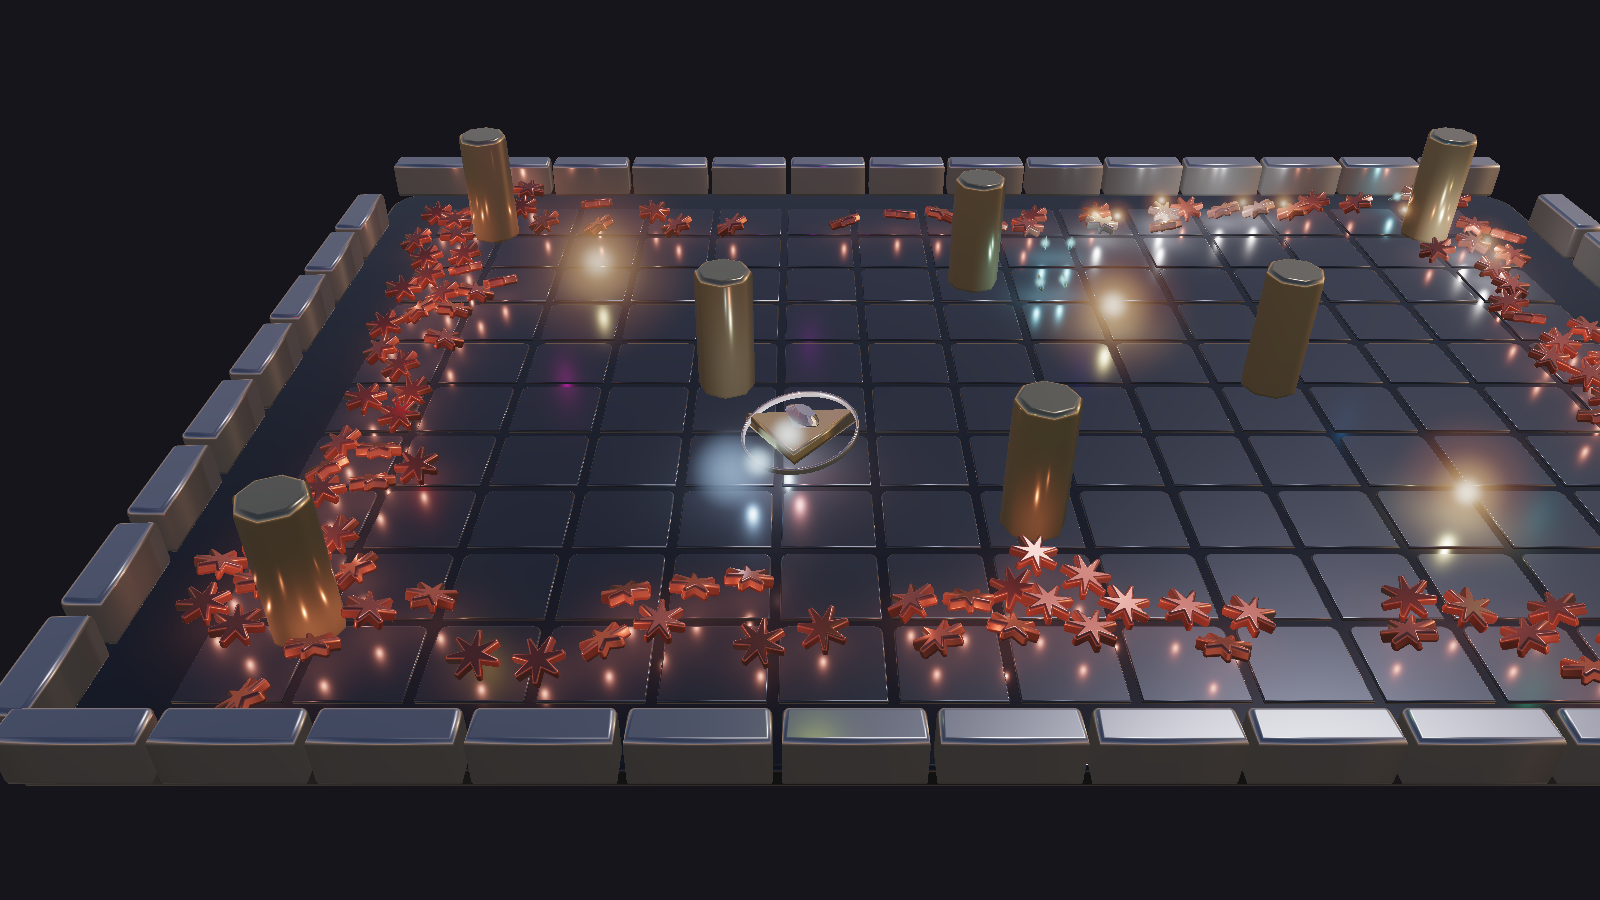
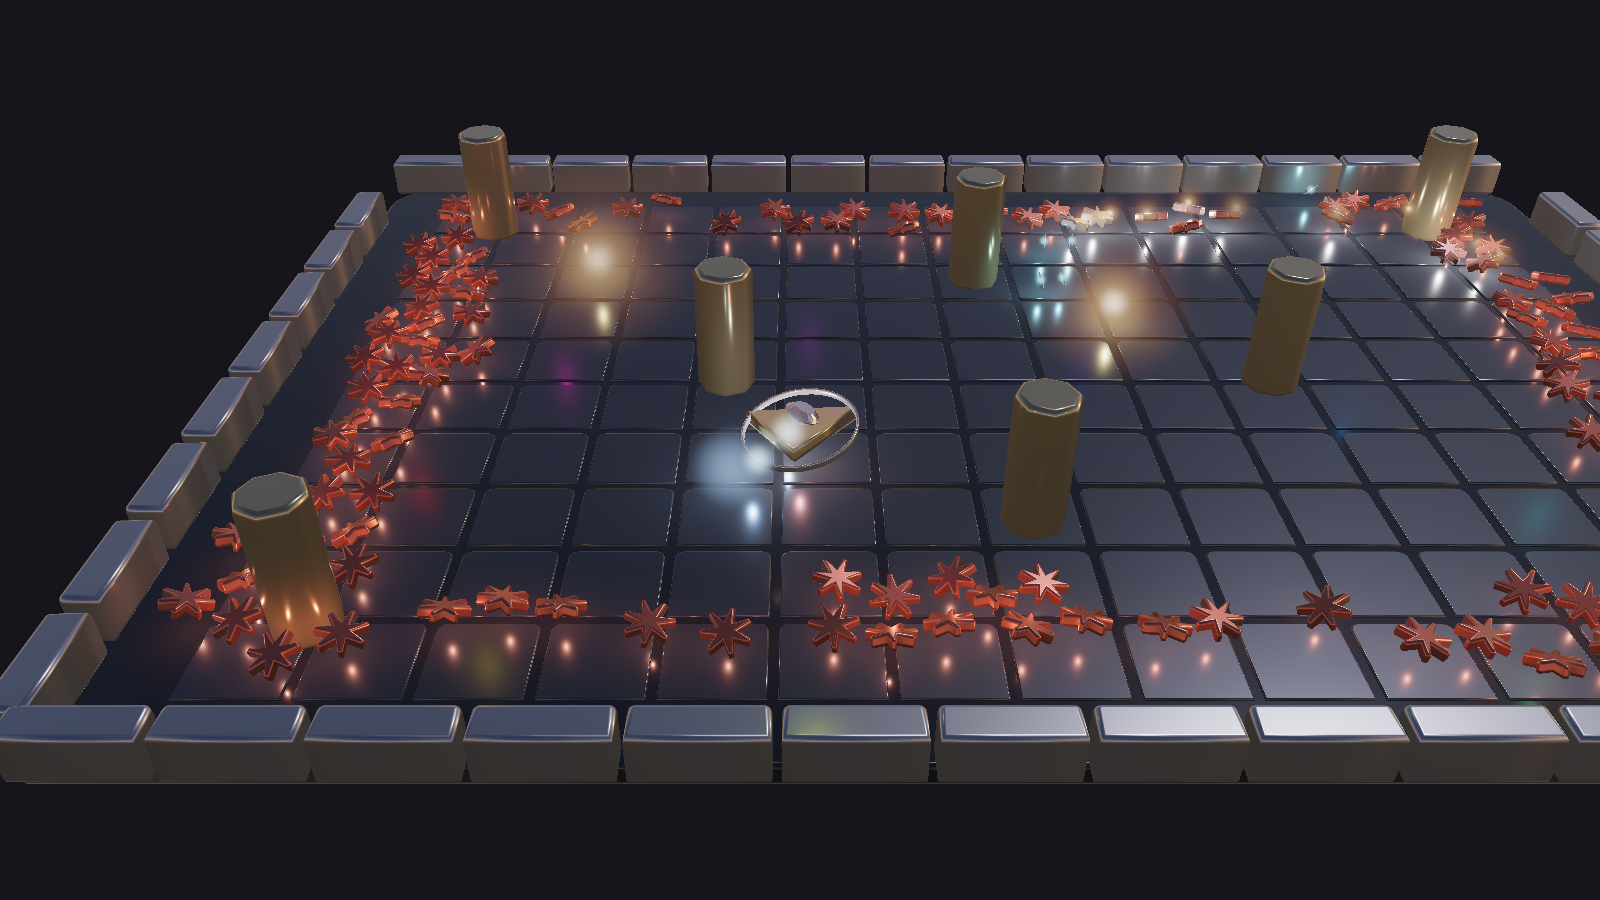
Solve the depth range too, not just the distance
The camera class defaults to a far plane of four metres, which was ample for
a piece of jewellery on a table. The arena is now 2.8 metres across and seen
from three back, so its far corners sit past five — outside the plane, not
drawn, with no error raised and nothing else wrong with the picture. The
arena just stopped, further away when zoomed out and across the top at the
normal distance.

Near and far now come from the same eight corners the camera fits itself to,
every frame: far is a fifth past the furthest of them, near is fixed at 15mm.
That keeps the ratio under a thousand, which a 24-bit depth buffer carries
without a hint of z-fighting.

`project` returns normalised depth as well, and the fit tests view depth
against the far plane. It must not test *normalised* depth: that is so
nonlinear that everything at arena range reads 0.998 whatever the plane is
set to, so a threshold on it rejects every distance and the search runs to
its cap — which it did, and pushed the fitted distance from 3.1 to 5.1
metres before I caught it.

Verified at three camera positions — the default zoom, the ship jammed in a
far corner, and fully zoomed out — that no arena corner falls behind the far
plane, and that fully out none falls outside the frame either.

diff --git a/src/main.ts b/src/main.ts
@@ -162,6 +162,7 @@ async function main() {
     // a hundred frames to get there
     followShip(1);
     orbit.update();
+    setDepthRange(renderer.camera);
     upload();
     renderer.frame(ctx.context.getCurrentTexture().createView(), 'redraw');
     await ctx.queue.onSubmittedWorkDone();
@@ -321,6 +322,7 @@ async function main() {
     if (input.takeRecentre()) { aim[0] = 0; aim[1] = 0; reframe(true); }
     followShip(dt);
     orbit.update();
+    setDepthRange(renderer.camera);
     arena.step(dt, input.read());
 
     const effects = upload();
@@ -357,30 +359,64 @@ async function main() {
  * was never on screen. So the corners are projected and the distance is
  * solved for, on every resize.
  */
+/** The eight corners of the box everything in the arena stands inside. */
+const ARENA_CORNERS: [number, number, number][] = [];
+for (const x of [-ARENA_X, ARENA_X]) {
+  for (const y of [-ARENA_Y, ARENA_Y]) {
+    for (const z of [0, 260]) ARENA_CORNERS.push([x, y, z]);
+  }
+}
+
+/**
+ * Keep the depth range around what the camera can actually see.
+ *
+ * The camera class defaults to a far plane of four metres, which was ample
+ * for a piece of jewellery on a table and is not for an arena 2.8 metres
+ * across seen from three metres back: the far corners fall outside it and
+ * are simply not drawn. Nothing warns about this — the geometry is there,
+ * the frame is fine, the arena just stops. So the range is derived from the
+ * corners every frame rather than set once and hoped over.
+ */
+function setDepthRange(cam: GameRenderer['camera']) {
+  let far = 0;
+  for (const c of ARENA_CORNERS) {
+    const d = Math.hypot(c[0] - cam.position[0], c[1] - cam.position[1], c[2] - cam.position[2]);
+    if (d > far) far = d;
+  }
+  // a fifth over, for the posts standing up and the glows drawn past them
+  cam.far = far * 1.2 + 300;
+  // near is fixed and small: the ratio to far stays under a thousand, which
+  // a 24-bit depth buffer carries without a hint of z-fighting
+  cam.near = 15;
+}
+
 function fitCamera(cam: GameRenderer['camera'], aspect: number): number {
   const target: [number, number, number] = [0, 0, CAMERA_HEIGHT];
   // back and up from the target, at the angle the arena reads best from
   const back = norm([0, -1.32, 0.915]);
-  const corners: [number, number, number][] = [];
-  for (const x of [-ARENA_X, ARENA_X]) {
-    for (const y of [-ARENA_Y, ARENA_Y]) {
-      for (const z of [0, 230]) corners.push([x, y, z]);
-    }
-  }
+  const corners = ARENA_CORNERS;
   cam.aspect = aspect;
   cam.target = target;
   let lo = 500, hi = 6000;
   for (let i = 0; i < 22; i++) {
     const d = (lo + hi) / 2;
     cam.position = [target[0] + back[0] * d, target[1] + back[1] * d, target[2] + back[2] * d];
+    setDepthRange(cam);
     cam.update();
+    // Across the frame only. Depth is not tested here and must not be: the
+    // far plane is derived from these same corners a line above, so it always
+    // clears them, and normalised depth is so nonlinear that everything at
+    // arena range reads 0.998 whatever the plane is set to — a threshold on
+    // it rejects every distance and the search runs to its cap.
     const fits = corners.every((c) => {
       const p = project(cam.viewProjection, c[0], c[1], c[2]);
-      return p !== null && Math.abs(p[0]) <= 0.985 && Math.abs(p[1]) <= 0.985;
+      return p !== null && p[2] < cam.far
+        && Math.abs(p[0]) <= 0.985 && Math.abs(p[1]) <= 0.985;
     });
     if (fits) hi = d; else lo = d;
   }
   cam.position = [target[0] + back[0] * hi, target[1] + back[1] * hi, target[2] + back[2] * hi];
+  setDepthRange(cam);
   cam.update();
   return hi;
 }

diff --git a/src/matrix.ts b/src/matrix.ts
@@ -46,14 +46,21 @@ export function hide(out: Float32Array, i: number) {
 }
 
 /**
- * A world point in clip space, given a column-major view-projection. Returns
- * null behind the camera, where the perspective divide turns the picture
- * inside out. Effects are placed with this.
+ * A world point in normalised device coordinates, given a column-major
+ * view-projection: x and y across the frame in -1 to 1, then the view depth
+ * `w` in world units, then depth in 0 to 1 where 1 is the far plane.
+ *
+ * Returns null behind the camera, where the perspective divide turns the
+ * picture inside out. Effects are placed with the first three; the fourth is
+ * how the camera's own fit knows a corner has fallen out the back.
  */
-export function project(vp: Float32Array, x: number, y: number, z: number): [number, number, number] | null {
+export function project(
+  vp: Float32Array, x: number, y: number, z: number,
+): [number, number, number, number] | null {
   const cx = vp[0] * x + vp[4] * y + vp[8] * z + vp[12];
   const cy = vp[1] * x + vp[5] * y + vp[9] * z + vp[13];
+  const cz = vp[2] * x + vp[6] * y + vp[10] * z + vp[14];
   const cw = vp[3] * x + vp[7] * y + vp[11] * z + vp[15];
   if (cw <= 1e-4) return null;
-  return [cx / cw, cy / cw, cw];
+  return [cx / cw, cy / cw, cw, cz / cw];
 }

diff --git a/README.md b/README.md
@@ -54,6 +54,12 @@ Solving for that distance is not a nicety: it was hardcoded at first, which
 cropped the near corners on a narrow window, and in a game where enemies come
 in from the edges that means dying to something that was never on screen.
 
+The depth range is solved for too, every frame, from the same corners. The
+camera class defaults to a far plane of four metres, which is ample for a
+piece of jewellery on a table and is not for an arena 2.8 metres across seen
+from three metres back — the far corners simply stop being drawn, with no
+error and nothing else wrong with the frame.
+
 ## What it is doing
 
 Every frame the light list is cleared and written again from scratch. A shot
